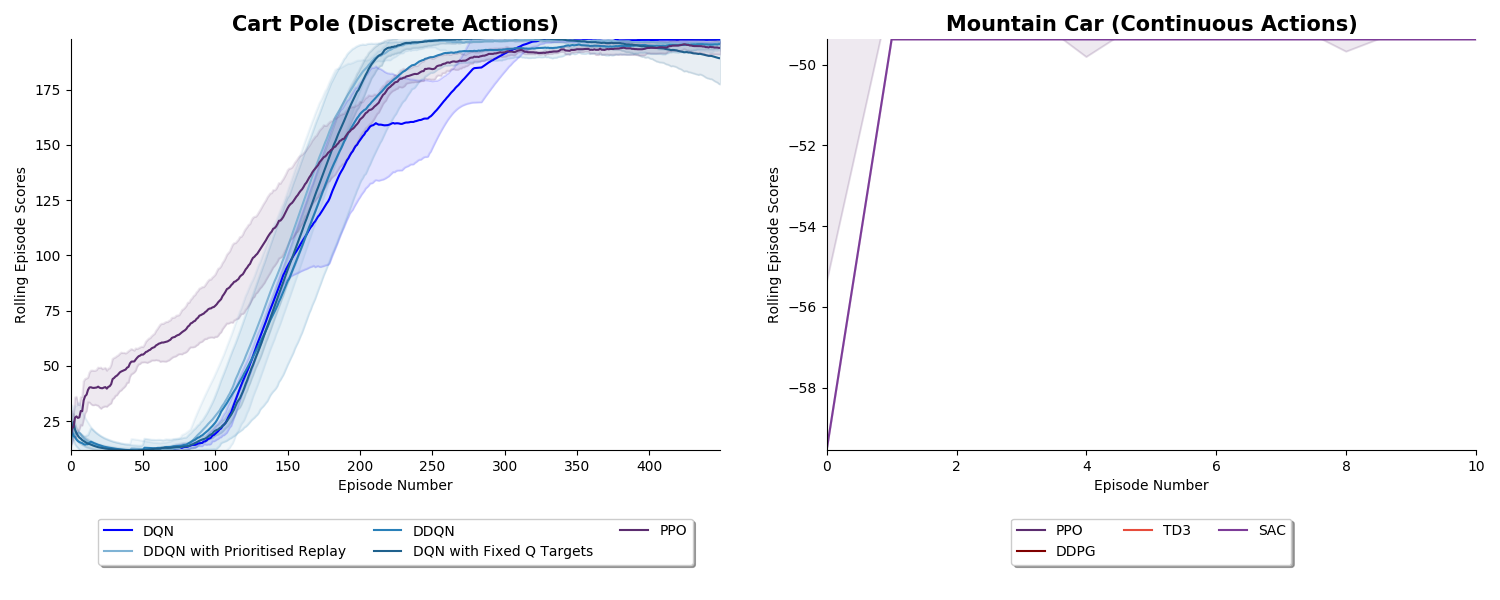
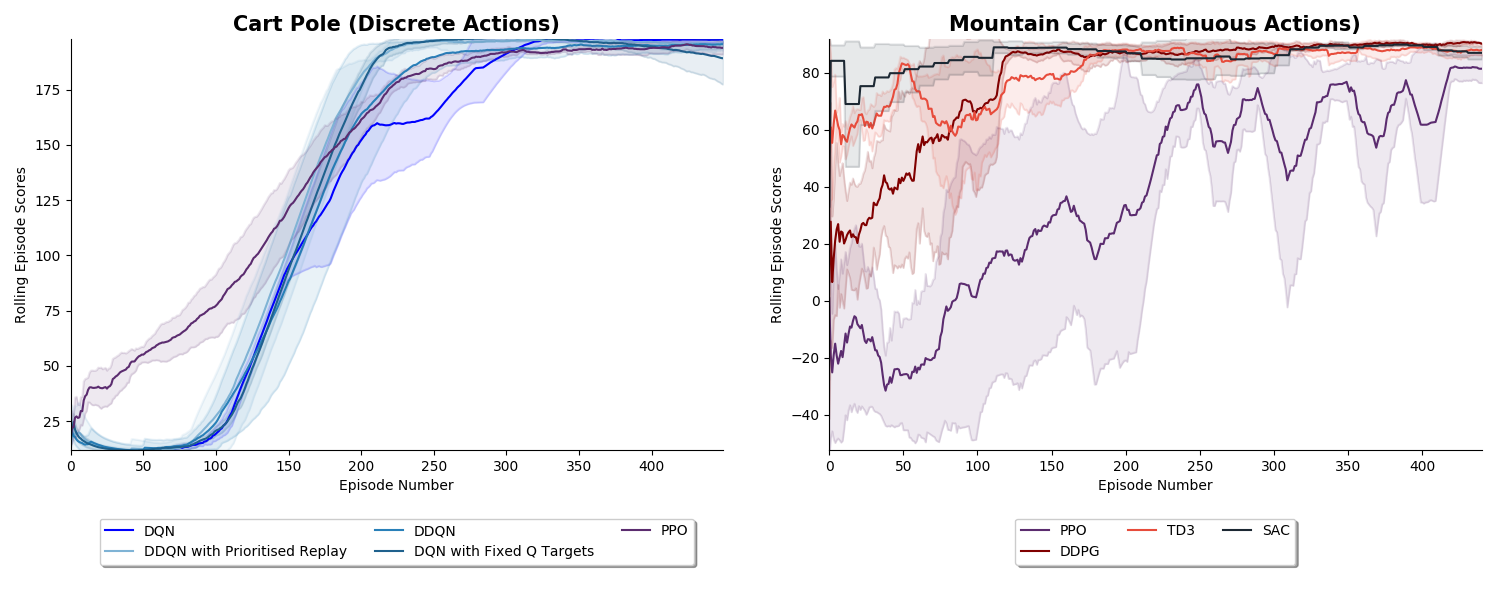
updated mountain car results graph

diff --git a/Agents/Trainer.py b/Agents/Trainer.py
@@ -61,7 +61,7 @@ class Trainer(object):
             "SNN-HRL": "#800000",
             "A3C": "#E74C3C",
             "A2C": "#F1948A",
-            "SAC": "#7D3C98"
+            "SAC": "#1C2833"
         }
         return agent_to_color_dictionary
 
